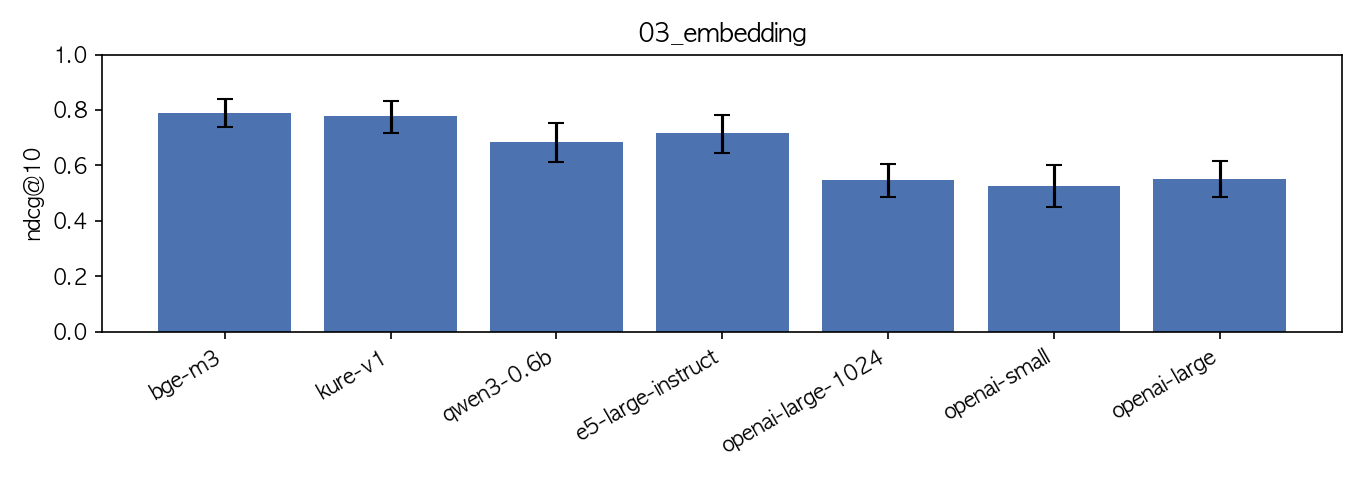
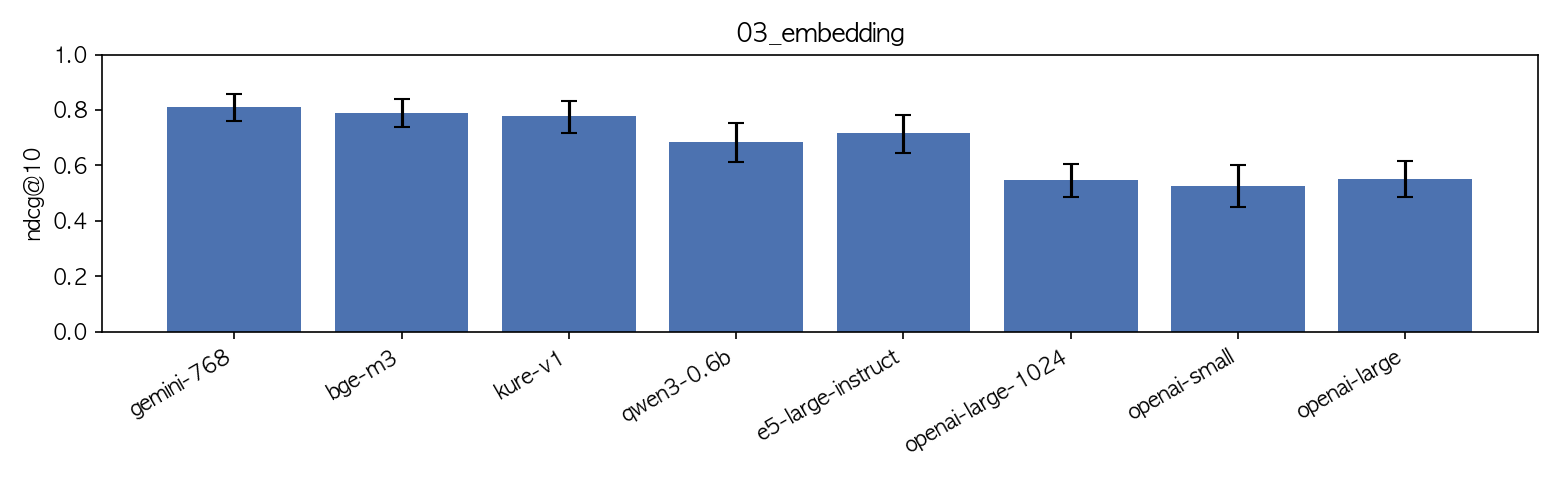
feat(rag-eval): switch embedding to gemini-768 and rerun stages 4-6
Same quality as BGE-M3 (paired diff not significant) but keeps a 2GB local
model off the Railway server. Threshold 0.7023 filters all 3 no-answer queries.

diff --git a/rag/eval/results/REPORT.md b/rag/eval/results/REPORT.md
@@ -12,14 +12,14 @@
 | PDF 파서 | PyMuPDF, 띄어쓰기 복원 없음 | 다른 파서·띄어쓰기 처리와 차이 없음(가장 단순) |
 | 전처리 | 머리말·꼬리말·쪽 번호·목차·참고문헌 제거, 소프트 하이픈 복원 | 참고문헌 청크 46개(9%) → 0개 |
 | 청킹 | **문단 묶기 1,200자** (문단 경계를 지키며 1,200자까지 쌓음, 겹침 0), **잠정** | 근거 Recall@예산은 "문단 하나씩"보다 낮지만, 맥락이 이어진 청크 3개로 LLM 입력과 인용이 단순하다. 하위 프로젝트 3의 생성 비교로 확정한다 |
-| 임베딩 | **BGE-M3** (1,024차원, 로컬) | 7개 모델 중 1등. 무료, API 한도 없음 |
-| 하이브리드 (BM25) | 사용 안 함 | 더하면 nDCG 0.791 → 0.748 |
-| 리랭커 | 사용 안 함 | 효과 없음(0.792), 쿼리당 약 2.6초 추가 |
+| 임베딩 | **gemini-embedding-001** (768차원, API) | 8개 모델 중 1등(0.810). BGE-M3(0.791)와 유의한 차이는 없지만, Railway 서버에 2GB 모델을 올리지 않아도 되고 앱이 이미 Gemini를 쓴다 |
+| 하이브리드 (BM25) | 사용 안 함 | 더하면 nDCG 0.810 → 0.750 |
+| 리랭커 | 사용 안 함 | 효과 없음(0.809), 쿼리당 약 3초 추가 |
 | 검색 쿼리 형태 | 키워드형 | 질문형과 차이 없음, 코드로 만들어 단순 |
 | k | 3 | 3,600자 예산(청크 길이 중앙값 기준) |
-| 유사도 임계값 | 0.6095 (코사인) | 정답 없는 쿼리를 거르되 정답 청크의 90%는 남김 |
+| 유사도 임계값 | 0.7023 (코사인) | 정답 없는 쿼리 3개를 모두 거르고, 정답 청크의 90% 이상을 남김 |
 
-**시험용 성능 (k = 3, 임계값 적용, 쿼리 26개):** Recall@3 0.923, nDCG@10 0.649, MRR 0.897. 사람이 검수한 쿼리만 보면 Recall@3 1.000이다.
+**시험용 성능 (k = 3, 임계값 적용, 쿼리 26개):** Recall@3 0.923, nDCG@10 0.724, MRR 0.865. 임계값 없이는 Recall@3 1.000이다. 사람이 검수한 쿼리만 보면 어느 쪽이든 Recall@3 1.000이다.
 
 ## 2. 평가 방법
 
@@ -82,11 +82,12 @@
   - LLM에 여러 문서의 조각 13개를 넘기고 인용 13개를 관리해야 한다. "문단 묶기"는 맥락이 이어진 덩어리 3개다.
 - 두 지표 모두 리포트가 실제로 나아지는지를 재지는 못한다. **하위 프로젝트 3에서 같은 쿼리로 두 청킹의 리포트를 만들어 정확성과 인용 근거를 비교한 뒤 확정한다.**
 
-### 3단계: 임베딩 모델 (nDCG@10)
+### 3단계: 임베딩 모델 (nDCG@10, 1·2단계는 BGE-M3로 고정해 진행)
 
 | 모델 | 문단 묶기 | 문단 하나씩 | 사람 검수 쿼리 (문단 묶기) | 영문 근거 쿼리 (문단 묶기) | 쿼리 지연 |
 |---|---|---|---|---|---|
-| **BGE-M3** | **0.791** | **0.708** | 0.795 | 0.693 | 16 ms |
+| **gemini-embedding-001 (768)** | **0.810** | – | 0.866 | 0.693 | 123 ms |
+| BGE-M3 | 0.791 | **0.708** | 0.795 | 0.693 | 18 ms |
 | KURE-v1 | 0.779 | 0.653 | 0.800 | 0.681 | 21 ms |
 | multilingual-e5-large-instruct | 0.717 | 0.638 | 0.766 | 0.539 | 17 ms |
 | Qwen3-Embedding-0.6B | 0.686 | 0.556 | 0.760 | 0.513 | 28 ms |
@@ -96,28 +97,34 @@
 
 - 모든 모델이 청크가 긴 "문단 묶기"에서 점수가 높다. 위에서 설명한 nDCG의 청크 길이 쏠림 때문이므로 두 열은 서로 비교하지 않고 열 안에서만 본다.
 - OpenAI 모델은 로컬 모델보다 0.2 이상 낮다. 캐시와 유사도 계산을 점검해 버그가 아님을 확인했다.
-- **gemini-embedding-001은 이번 비교에서 빠졌다.** 무료 등급의 하루 1,000건 한도 때문이다. 참고로 이전 라벨·청킹(라벨 보강 전, 1,200자 / 겹침 0)에서는 gemini-768이 nDCG 0.787로 BGE-M3(0.702)보다 높았다.
+- **Gemini와 BGE-M3의 차이는 유의하지 않다.** 쿼리별 쌍체 차이는 +0.019, 95% 구간 [−0.024, +0.069]다. Gemini가 나은 쿼리 27개, 못한 쿼리 19개다. 사람 검수 쿼리에서는 0.866 대 0.795로 차이가 더 크다. 근거 Recall@예산은 둘 다 0.485다.
+- 선택 규칙(차이 없으면 표의 위, 즉 차원이 작은 쪽)도 Gemini를 고른다. 다만 실제 선택 이유는 유지보수다. BGE-M3를 쓰면 쿼리 임베딩을 위해 Railway 서버에 torch와 약 2.2GB 모델을 올려야 하고 상시 2~3GB 메모리가 든다. Gemini는 앱이 이미 쓰는 `google-genai`와 키로 충분하다. 대신 API 한도(임베딩 하루 1,000건)와 모델 종료 시 재임베딩(청크 497개, 몇 분)을 감수한다.
+- gemini 1,536·3,072차원은 하루 한도 때문에 돌리지 않았다. "문단 하나씩"은 Gemini로 돌리지 않았다(청크 1,825개).
 
-### 4~5단계: 하이브리드, 리랭커 (문단 묶기 + BGE-M3)
+### 4~5단계: 하이브리드, 리랭커 (문단 묶기 + Gemini-768)
 
 | 구성 | nDCG@10 | Recall@3 | MRR |
 |---|---|---|---|
-| **벡터만** | **0.791** | 0.980 | 0.959 |
-| 벡터 + BM25 (RRF) | 0.748 | 0.922 | 0.919 |
-| + bge-reranker-v2-m3 (상위 20개 재정렬, 쿼리당 2.6초) | 0.792 | 0.961 | 0.965 |
-| + bge-reranker-v2-m3-ko | 0.744 | 0.980 | 0.900 |
+| **벡터만** | **0.810** | 1.000 | 0.928 |
+| 벡터 + BM25 (RRF) | 0.750 | 0.941 | 0.935 |
+| + bge-reranker-v2-m3 (상위 20개 재정렬, 쿼리당 3.0초) | 0.809 | 1.000 | 0.987 |
+| + bge-reranker-v2-m3-ko | 0.756 | 0.961 | 0.899 |
+
+BGE-M3 기준으로 돌렸을 때도 결론은 같았다(벡터만 0.791, BM25 0.748, 리랭커 0.792).
 
 ### 6단계: 운영값 (조정용으로 정하고 시험용으로 보고)
 
-- **쿼리 형태:** 키워드형 nDCG 0.863, 질문형 0.817로 차이가 없어 키워드형을 골랐다.
+- **쿼리 형태:** 키워드형 nDCG 0.850, 질문형 0.860으로 차이가 없어 코드로 만들기 쉬운 키워드형을 골랐다.
 - **k = 3:** 청크 길이 중앙값으로 3,600자 예산을 채우는 개수다.
-- **임계값 0.6095:** 정답 없는 쿼리의 1위 코사인은 0.49, 0.64, 0.56이다. 정답 청크의 90%를 남기는 상한으로 잘랐더니, 정답 없는 쿼리 3개 중 2개가 걸러진다.
+- **임계값 0.7023:** 정답 없는 쿼리의 1위 코사인은 0.66, 0.70, 0.61이다. 이 중 최댓값이 조정용 정답 청크 코사인의 10% 분위수보다 낮아서, 정답 없는 쿼리 3개를 모두 거른다(BGE-M3는 3개 중 2개). 다만 이 3개로 정한 값이라 경계에 바짝 붙어 있다.
 
 | 시험용 (k = 3) | Recall@3 | nDCG@10 | 근거 Recall@3 | 사람 검수 쿼리 | 영문 근거 쿼리 |
 |---|---|---|---|---|---|
-| 전체 · 임계값 없음 | 0.962 | 0.752 | 0.421 | 1.000 | 0.857 |
-| 전체 · 임계값 적용 | 0.923 | 0.649 | 0.404 | 1.000 | 0.714 |
-| 키워드형 · 임계값 적용 | 0.917 | 0.687 | 0.420 | 1.000 | 0.667 |
+| 전체 · 임계값 없음 | 1.000 | 0.786 | 0.456 | 1.000 | 1.000 |
+| 전체 · 임계값 적용 | 0.923 | 0.724 | 0.432 | 1.000 | 0.714 |
+| 키워드형 · 임계값 적용 | 1.000 | 0.833 | 0.496 | 1.000 | 1.000 |
+
+참고: 같은 조건에서 BGE-M3는 임계값 없이 Recall@3 0.962, nDCG 0.752, 임계값 적용 시 0.923, 0.649였다.
 
 ## 4. 진행 중 바꾼 결정과 이유
 
@@ -131,6 +138,7 @@
 | 10-14 | **라벨 보강** (8개 구성 전부) | 기존 라벨은 옛 청킹에서 모은 후보라 새 청킹에 불리했다 |
 | 10-14 | OpenAI 임베딩 후보 추가 (유료) | Gemini 무료 등급 한도 때문에 대안이 필요했다. 결과는 성능 미달 |
 | 10-14 | k 규칙: Recall 비율 → **글자 수 예산** | 이전 규칙은 k=1을 골라 근거의 17%만 LLM에 넘겼다 |
+| 10-14 | 임베딩: BGE-M3 → **Gemini-768** | 성능 차이는 유의하지 않음. 배포 서버(Railway)에 로컬 모델을 올리지 않는 쪽이 유지보수가 쉽다 |
 | 10-14 | 청킹 잠정 선택: 규칙상 1등("문단 하나씩") 대신 **"문단 묶기"** | 맥락이 이어진 청크와 단순한 LLM 입력·인용. 근거 Recall@예산은 0.485 대 0.570으로 낮다. 처음에는 nDCG가 높다는 이유를 들었으나, nDCG는 긴 청크에 유리해 청킹 비교에 쓸 수 없어 철회했다 |
 
 ## 5. 한계
@@ -142,13 +150,13 @@
 - **임계값은 정답 없는 쿼리 3개로 정했다.** 이 3개로 거르는 성능을 보고하므로 검증된 값이 아니다.
 - **청킹 선택은 검색 지표만으로 확정하지 않았다.** 근거 Recall@예산은 "문단 하나씩"이 높고, 선택은 운영상의 판단이다.
 - **k를 청크 길이 중앙값으로 정한다.** 길이가 치우친 청킹("문단 하나씩")에서는 실제로 넘기는 글자 수가 예산을 넘는다.
-- **영문 근거 쿼리(근감소증, JOMES)가 약하다.** 임계값을 적용하면 Recall이 0.857에서 0.714로 떨어진다.
+- **영문 근거 쿼리(근감소증, JOMES)는 임계값에 약하다.** 임계값을 적용하면 Recall@3이 1.000에서 0.714로 떨어진다. 영문 문서의 코사인이 전반적으로 낮기 때문이다.
+- **임베딩이 외부 API다.** 하루 한도와 분당 한도(평가 중 429 반복)가 있고 앱 LLM과 키를 함께 쓴다. 모델이 종료되면 전체를 재임베딩해야 한다.
 
 ## 6. 남은 일
 
-1. **gemini-embedding-001 (768차원) 비교:** 한도가 풀리면 "문단 묶기"로 3단계에 추가한다. BGE-M3보다 유의하게 높으면 3~6단계를 다시 돌린다.
-2. **(선택) Qwen3-Embedding-8B 비교:** GPU(RunPod 등)로 한 번 측정해 성능 상한을 확인한다.
-3. **하위 프로젝트 3:** `selected.json`대로 pgvector 적재, 검색 서비스, 리포트 생성 연결. 이때 "문단 묶기"와 "문단 하나씩"(`runs/single/selected.json`, k=13)으로 리포트를 함께 만들어 청킹을 확정한다.
+1. **(선택) Qwen3-Embedding-8B 비교:** GPU(RunPod 등)로 한 번 측정해 성능 상한을 확인한다.
+2. **하위 프로젝트 3:** `selected.json`대로 pgvector 적재, 검색 서비스, 리포트 생성 연결. 이때 "문단 묶기"와 "문단 하나씩"(`runs/single/selected.json`, k=13)으로 리포트를 함께 만들어 청킹을 확정한다. 임베딩 모델 이름과 차원을 설정에 고정하고, 재임베딩을 한 번에 돌릴 수 있게 만든다.
 
 ## 그래프
 

diff --git a/rag/eval/results/paragraph/03_embedding.md b/rag/eval/results/paragraph/03_embedding.md
@@ -4,14 +4,15 @@
 
 | 구성 | ndcg@10 | recall@3 | recall@20 | mrr | recall@budget | ev_recall@budget | ndcg@10 (사람 검수) | ndcg@10 (영문 근거) | chunks | dims | storage_mb | query_ms |
 |---|---|---|---|---|---|---|---|---|---|---|---|---|
-| bge-m3 | 0.791 [0.738, 0.838] | 0.980 [0.922, 1.000] | 1.000 [1.000, 1.000] | 0.959 [0.899, 1.000] | 0.980 [0.922, 1.000] | 0.485 [0.414, 0.557] | 0.795 [0.727, 0.873] | 0.693 [0.574, 0.786] | 497 | 1024 | 1.018 | 15.600 |
-| kure-v1 | 0.779 [0.717, 0.832] | 0.980 [0.922, 1.000] | 1.000 [1.000, 1.000] | 0.949 [0.886, 0.990] | 0.980 [0.922, 1.000] | 0.486 [0.420, 0.555] | 0.800 [0.741, 0.868] | 0.681 [0.545, 0.797] | 497 | 1024 | 1.018 | 21.200 |
-| qwen3-0.6b | 0.686 [0.611, 0.752] | 0.922 [0.843, 0.980] | 0.980 [0.922, 1.000] | 0.873 [0.794, 0.947] | 0.922 [0.843, 0.980] | 0.405 [0.337, 0.469] | 0.760 [0.671, 0.845] | 0.513 [0.380, 0.629] | 497 | 1024 | 1.018 | 28.400 |
-| e5-large-instruct | 0.717 [0.646, 0.783] | 0.941 [0.863, 1.000] | 0.980 [0.922, 1.000] | 0.913 [0.838, 0.973] | 0.941 [0.863, 1.000] | 0.455 [0.383, 0.534] | 0.766 [0.708, 0.822] | 0.539 [0.374, 0.682] | 497 | 1024 | 1.018 | 16.600 |
-| openai-large-1024 | 0.547 [0.488, 0.605] | 0.922 [0.843, 0.980] | 0.980 [0.922, 1.000] | 0.764 [0.677, 0.851] | 0.922 [0.843, 0.980] | 0.333 [0.271, 0.395] | 0.668 [0.595, 0.749] | 0.477 [0.367, 0.564] | 497 | 1024 | 1.018 | 93.800 |
-| openai-small | 0.525 [0.449, 0.600] | 0.843 [0.745, 0.941] | 0.922 [0.843, 0.980] | 0.746 [0.655, 0.845] | 0.843 [0.745, 0.941] | 0.330 [0.264, 0.400] | 0.642 [0.539, 0.746] | 0.352 [0.240, 0.451] | 497 | 1536 | 1.527 | 33.300 |
-| openai-large | 0.551 [0.487, 0.615] | 0.824 [0.725, 0.922] | 0.961 [0.902, 1.000] | 0.732 [0.636, 0.826] | 0.922 [0.843, 0.980] | 0.324 [0.262, 0.383] | 0.692 [0.625, 0.766] | 0.493 [0.375, 0.592] | 497 | 3072 | 3.054 | 58.700 |
+| gemini-768 | 0.810 [0.761, 0.857] | 1.000 [1.000, 1.000] | 1.000 [1.000, 1.000] | 0.928 [0.876, 0.971] | 1.000 [1.000, 1.000] | 0.485 [0.423, 0.556] | 0.866 [0.823, 0.910] | 0.693 [0.586, 0.785] | 497 | 768 | 0.763 | 123.200 |
+| bge-m3 | 0.791 [0.738, 0.838] | 0.980 [0.922, 1.000] | 1.000 [1.000, 1.000] | 0.959 [0.899, 1.000] | 0.980 [0.922, 1.000] | 0.485 [0.414, 0.557] | 0.795 [0.727, 0.873] | 0.693 [0.574, 0.786] | 497 | 1024 | 1.018 | 17.800 |
+| kure-v1 | 0.779 [0.717, 0.832] | 0.980 [0.922, 1.000] | 1.000 [1.000, 1.000] | 0.949 [0.886, 0.990] | 0.980 [0.922, 1.000] | 0.486 [0.420, 0.555] | 0.800 [0.741, 0.868] | 0.681 [0.545, 0.797] | 497 | 1024 | 1.018 | 22.400 |
+| qwen3-0.6b | 0.686 [0.611, 0.752] | 0.922 [0.843, 0.980] | 0.980 [0.922, 1.000] | 0.873 [0.794, 0.947] | 0.922 [0.843, 0.980] | 0.405 [0.337, 0.469] | 0.760 [0.671, 0.845] | 0.513 [0.380, 0.629] | 497 | 1024 | 1.018 | 32.000 |
+| e5-large-instruct | 0.717 [0.646, 0.783] | 0.941 [0.863, 1.000] | 0.980 [0.922, 1.000] | 0.913 [0.838, 0.973] | 0.941 [0.863, 1.000] | 0.455 [0.383, 0.534] | 0.766 [0.708, 0.822] | 0.539 [0.374, 0.682] | 497 | 1024 | 1.018 | 19.100 |
+| openai-large-1024 | 0.547 [0.488, 0.605] | 0.922 [0.843, 0.980] | 0.980 [0.922, 1.000] | 0.764 [0.677, 0.851] | 0.922 [0.843, 0.980] | 0.333 [0.271, 0.395] | 0.668 [0.595, 0.749] | 0.477 [0.367, 0.564] | 497 | 1024 | 1.018 | 115.900 |
+| openai-small | 0.525 [0.449, 0.600] | 0.843 [0.745, 0.941] | 0.922 [0.843, 0.980] | 0.746 [0.655, 0.845] | 0.843 [0.745, 0.941] | 0.330 [0.264, 0.400] | 0.642 [0.539, 0.746] | 0.352 [0.240, 0.451] | 497 | 1536 | 1.527 | 18.600 |
+| openai-large | 0.551 [0.487, 0.615] | 0.824 [0.725, 0.922] | 0.961 [0.902, 1.000] | 0.732 [0.636, 0.826] | 0.922 [0.843, 0.980] | 0.324 [0.262, 0.383] | 0.692 [0.625, 0.766] | 0.493 [0.375, 0.592] | 497 | 3072 | 3.054 | 20.500 |
 
-**선택: bge-m3**
+**선택: gemini-768**
 
-앞쪽일수록 저장 용량(차원)이 작다. storage_mb는 halfvec(2바이트) 기준. gemini의 query_ms는 네트워크 왕복을 포함한다. 미실행: gemini-768, gemini-1536, gemini-3072.
+앞쪽일수록 저장 용량(차원)이 작다. storage_mb는 halfvec(2바이트) 기준. gemini의 query_ms는 네트워크 왕복을 포함한다. 미실행: gemini-1536, gemini-3072.

diff --git a/rag/eval/results/paragraph/06_operating.md b/rag/eval/results/paragraph/06_operating.md
@@ -4,9 +4,9 @@
 
 | 구성 | ndcg@10 | recall@3 | recall@20 | mrr | recall@budget | ev_recall@budget | queries |
 |---|---|---|---|---|---|---|---|
-| keyword | 0.863 [0.788, 0.927] | 1.000 [1.000, 1.000] | 1.000 [1.000, 1.000] | 1.000 [1.000, 1.000] | 1.000 [1.000, 1.000] | 0.507 [0.344, 0.672] | 12 |
-| question | 0.817 [0.764, 0.877] | 1.000 [1.000, 1.000] | 1.000 [1.000, 1.000] | 1.000 [1.000, 1.000] | 1.000 [1.000, 1.000] | 0.503 [0.366, 0.641] | 12 |
-| inbody | 0.621 [0.621, 0.621] | 1.000 [1.000, 1.000] | 1.000 [1.000, 1.000] | 1.000 [1.000, 1.000] | 1.000 [1.000, 1.000] | 0.038 [0.038, 0.038] | 1 |
+| keyword | 0.850 [0.741, 0.932] | 1.000 [1.000, 1.000] | 1.000 [1.000, 1.000] | 0.917 [0.792, 1.000] | 1.000 [1.000, 1.000] | 0.529 [0.385, 0.688] | 12 |
+| question | 0.860 [0.804, 0.917] | 1.000 [1.000, 1.000] | 1.000 [1.000, 1.000] | 1.000 [1.000, 1.000] | 1.000 [1.000, 1.000] | 0.454 [0.343, 0.580] | 12 |
+| inbody | 0.354 [0.354, 0.354] | 1.000 [1.000, 1.000] | 1.000 [1.000, 1.000] | 0.333 [0.333, 0.333] | 1.000 [1.000, 1.000] | 0.115 [0.115, 0.115] | 1 |
 
 **선택: keyword** (inbody는 참고)
 
@@ -14,24 +14,24 @@
 
 | k | 1 | 2 | 3 | 4 | 5 | 6 | 7 | 8 | 9 | 10 |
 |---|---|---|---|---|---|---|---|---|---|---|
-| Recall@k | 1.000 | 1.000 | 1.000 | 1.000 | 1.000 | 1.000 | 1.000 | 1.000 | 1.000 | 1.000 |
+| Recall@k | 0.880 | 0.960 | 1.000 | 1.000 | 1.000 | 1.000 | 1.000 | 1.000 | 1.000 | 1.000 |
 
 **선택: k = 3** (청크 길이 중앙값으로 3,600자 예산을 채우는 개수)
 
 ## 임계값 (임베딩 코사인)
 
-- 정답 없는 쿼리 1위 코사인: 0.4925, 0.6373, 0.5639
+- 정답 없는 쿼리 1위 코사인: 0.6621, 0.7023, 0.6128
 - 조정용 첫 정답 청크 코사인 25개 중 90%가 남도록 상한을 둠
 
-**선택: 0.6095**
+**선택: 0.7023**
 
 ## 시험용 결과
 
 | 구성 | recall@3 | ndcg@10 | mrr | ev_recall@3 | recall@3 (사람 검수) | recall@3 (영문 근거) | queries |
 |---|---|---|---|---|---|---|---|
-| 전체 · 임계값 없음 | 0.962 [0.885, 1.000] | 0.752 [0.671, 0.827] | 0.921 [0.823, 1.000] | 0.421 [0.333, 0.505] | 1.000 [1.000, 1.000] | 0.857 [0.571, 1.000] | 26 |
-| 전체 · 임계값 0.6095 | 0.923 [0.808, 1.000] | 0.649 [0.521, 0.754] | 0.897 [0.769, 1.000] | 0.404 [0.317, 0.494] | 1.000 [1.000, 1.000] | 0.714 [0.429, 1.000] | 26 |
-| keyword · 임계값 없음 | 0.917 [0.750, 1.000] | 0.731 [0.579, 0.839] | 0.925 [0.775, 1.000] | 0.420 [0.293, 0.556] | 1.000 [1.000, 1.000] | 0.667 [0.000, 1.000] | 12 |
-| keyword · 임계값 0.6095 | 0.917 [0.750, 1.000] | 0.687 [0.523, 0.817] | 0.917 [0.750, 1.000] | 0.420 [0.293, 0.556] | 1.000 [1.000, 1.000] | 0.667 [0.000, 1.000] | 12 |
+| 전체 · 임계값 없음 | 1.000 [1.000, 1.000] | 0.786 [0.716, 0.851] | 0.923 [0.846, 0.981] | 0.456 [0.377, 0.540] | 1.000 [1.000, 1.000] | 1.000 [1.000, 1.000] | 26 |
+| 전체 · 임계값 0.7023 | 0.923 [0.808, 1.000] | 0.724 [0.595, 0.827] | 0.865 [0.731, 0.962] | 0.432 [0.337, 0.524] | 1.000 [1.000, 1.000] | 0.714 [0.429, 1.000] | 26 |
+| keyword · 임계값 없음 | 1.000 [1.000, 1.000] | 0.833 [0.749, 0.912] | 0.917 [0.792, 1.000] | 0.496 [0.360, 0.644] | 1.000 [1.000, 1.000] | 1.000 [1.000, 1.000] | 12 |
+| keyword · 임계값 0.7023 | 1.000 [1.000, 1.000] | 0.833 [0.749, 0.912] | 0.917 [0.792, 1.000] | 0.496 [0.360, 0.644] | 1.000 [1.000, 1.000] | 1.000 [1.000, 1.000] | 12 |
 
-정답 없는 쿼리 3개 중 2개가 임계값으로 걸러진다. 임계값을 정할 때 이 3개를 모두 썼다.
+정답 없는 쿼리 3개 중 3개가 임계값으로 걸러진다. 임계값을 정할 때 이 3개를 모두 썼다.

diff --git a/rag/eval/results/paragraph/summary.md b/rag/eval/results/paragraph/summary.md
@@ -9,24 +9,24 @@
 | chunker | paragraph |
 | max_chars | 1200 |
 | overlap | 0 |
-| embedding_model | bge-m3 |
-| dimensions | 1024 |
+| embedding_model | gemini-768 |
+| dimensions | 768 |
 | hybrid | False |
 | reranker | None |
 | query_form | keyword |
 | final_k | 3 |
-| threshold | 0.6095 |
+| threshold | 0.7023 |
 
 ## 시험용 결과 (k = 3)
 
 | 구성 | recall@3 | ndcg@10 | mrr | ev_recall@3 | recall@3 (사람 검수) | recall@3 (영문 근거) | queries |
 |---|---|---|---|---|---|---|---|
-| 전체 · 임계값 없음 | 0.962 [0.885, 1.000] | 0.752 [0.671, 0.827] | 0.921 [0.823, 1.000] | 0.421 [0.333, 0.505] | 1.000 [1.000, 1.000] | 0.857 [0.571, 1.000] | 26 |
-| 전체 · 임계값 0.6095 | 0.923 [0.808, 1.000] | 0.649 [0.521, 0.754] | 0.897 [0.769, 1.000] | 0.404 [0.317, 0.494] | 1.000 [1.000, 1.000] | 0.714 [0.429, 1.000] | 26 |
-| keyword · 임계값 없음 | 0.917 [0.750, 1.000] | 0.731 [0.579, 0.839] | 0.925 [0.775, 1.000] | 0.420 [0.293, 0.556] | 1.000 [1.000, 1.000] | 0.667 [0.000, 1.000] | 12 |
-| keyword · 임계값 0.6095 | 0.917 [0.750, 1.000] | 0.687 [0.523, 0.817] | 0.917 [0.750, 1.000] | 0.420 [0.293, 0.556] | 1.000 [1.000, 1.000] | 0.667 [0.000, 1.000] | 12 |
+| 전체 · 임계값 없음 | 1.000 [1.000, 1.000] | 0.786 [0.716, 0.851] | 0.923 [0.846, 0.981] | 0.456 [0.377, 0.540] | 1.000 [1.000, 1.000] | 1.000 [1.000, 1.000] | 26 |
+| 전체 · 임계값 0.7023 | 0.923 [0.808, 1.000] | 0.724 [0.595, 0.827] | 0.865 [0.731, 0.962] | 0.432 [0.337, 0.524] | 1.000 [1.000, 1.000] | 0.714 [0.429, 1.000] | 26 |
+| keyword · 임계값 없음 | 1.000 [1.000, 1.000] | 0.833 [0.749, 0.912] | 0.917 [0.792, 1.000] | 0.496 [0.360, 0.644] | 1.000 [1.000, 1.000] | 1.000 [1.000, 1.000] | 12 |
+| keyword · 임계값 0.7023 | 1.000 [1.000, 1.000] | 0.833 [0.749, 0.912] | 0.917 [0.792, 1.000] | 0.496 [0.360, 0.644] | 1.000 [1.000, 1.000] | 1.000 [1.000, 1.000] | 12 |
 
-정답 없는 쿼리 3개 중 2개를 임계값으로 거른다(임계값을 이 쿼리들로 정했다).
+정답 없는 쿼리 3개 중 3개를 임계값으로 거른다(임계값을 이 쿼리들로 정했다).
 
 단계별 근거는 `01_parser.md` … `06_operating.md`. 1등과의 쿼리별 차이(쌍체 부트스트랩 95% 구간)가 0을 포함하면 더 단순·저렴한 구성을 골랐다.
 

diff --git a/rag/eval/results/paragraph/05_reranker.md b/rag/eval/results/paragraph/05_reranker.md
@@ -4,9 +4,9 @@
 
 | 구성 | ndcg@10 | recall@3 | recall@20 | mrr | recall@budget | ev_recall@budget | ndcg@10 (사람 검수) | ndcg@10 (영문 근거) | chunks | rerank_ms |
 |---|---|---|---|---|---|---|---|---|---|---|
-| 없음 | 0.791 [0.738, 0.838] | 0.980 [0.922, 1.000] | 1.000 [1.000, 1.000] | 0.959 [0.899, 1.000] | 0.980 [0.922, 1.000] | 0.485 [0.414, 0.557] | 0.795 [0.727, 0.873] | 0.693 [0.574, 0.786] | 497 |  |
-| bge-reranker-v2-m3 | 0.792 [0.728, 0.846] | 0.961 [0.901, 1.000] | 1.000 [1.000, 1.000] | 0.965 [0.911, 1.000] | 0.961 [0.901, 1.000] | 0.497 [0.428, 0.565] | 0.826 [0.768, 0.883] | 0.672 [0.536, 0.785] | 497 | 2588.879 |
-| bge-reranker-v2-m3-ko | 0.744 [0.685, 0.802] | 0.980 [0.922, 1.000] | 1.000 [1.000, 1.000] | 0.900 [0.827, 0.958] | 0.980 [0.922, 1.000] | 0.478 [0.408, 0.551] | 0.777 [0.706, 0.846] | 0.604 [0.470, 0.719] | 497 | 2587.540 |
+| 없음 | 0.810 [0.761, 0.857] | 1.000 [1.000, 1.000] | 1.000 [1.000, 1.000] | 0.928 [0.876, 0.971] | 1.000 [1.000, 1.000] | 0.485 [0.423, 0.556] | 0.866 [0.823, 0.910] | 0.693 [0.586, 0.785] | 497 |  |
+| bge-reranker-v2-m3 | 0.809 [0.763, 0.850] | 1.000 [1.000, 1.000] | 1.000 [1.000, 1.000] | 0.987 [0.948, 1.000] | 1.000 [1.000, 1.000] | 0.521 [0.456, 0.592] | 0.832 [0.774, 0.884] | 0.700 [0.614, 0.775] | 497 | 3013.603 |
+| bge-reranker-v2-m3-ko | 0.756 [0.693, 0.812] | 0.961 [0.902, 1.000] | 1.000 [1.000, 1.000] | 0.899 [0.835, 0.956] | 0.980 [0.941, 1.000] | 0.478 [0.410, 0.553] | 0.797 [0.719, 0.861] | 0.612 [0.496, 0.710] | 497 | 2742.004 |
 
 **선택: 없음**
 

diff --git a/rag/eval/results/paragraph/04_hybrid.md b/rag/eval/results/paragraph/04_hybrid.md
@@ -4,7 +4,7 @@
 
 | 구성 | ndcg@10 | recall@3 | recall@20 | mrr | recall@budget | ev_recall@budget | ndcg@10 (사람 검수) | ndcg@10 (영문 근거) | chunks |
 |---|---|---|---|---|---|---|---|---|---|
-| 벡터만 | 0.791 [0.738, 0.838] | 0.980 [0.922, 1.000] | 1.000 [1.000, 1.000] | 0.959 [0.899, 1.000] | 0.980 [0.922, 1.000] | 0.485 [0.414, 0.557] | 0.795 [0.727, 0.873] | 0.693 [0.574, 0.786] | 497 |
-| 벡터 + BM25 | 0.748 [0.677, 0.818] | 0.922 [0.843, 0.980] | 0.980 [0.922, 1.000] | 0.919 [0.845, 0.980] | 0.922 [0.843, 0.980] | 0.452 [0.381, 0.529] | 0.807 [0.745, 0.871] | 0.549 [0.376, 0.689] | 497 |
+| 벡터만 | 0.810 [0.761, 0.857] | 1.000 [1.000, 1.000] | 1.000 [1.000, 1.000] | 0.928 [0.876, 0.971] | 1.000 [1.000, 1.000] | 0.485 [0.423, 0.556] | 0.866 [0.823, 0.910] | 0.693 [0.586, 0.785] | 497 |
+| 벡터 + BM25 | 0.750 [0.678, 0.814] | 0.941 [0.863, 1.000] | 0.980 [0.922, 1.000] | 0.935 [0.867, 0.990] | 0.941 [0.863, 1.000] | 0.461 [0.392, 0.534] | 0.837 [0.783, 0.887] | 0.545 [0.397, 0.674] | 497 |
 
 **선택: 벡터만**
